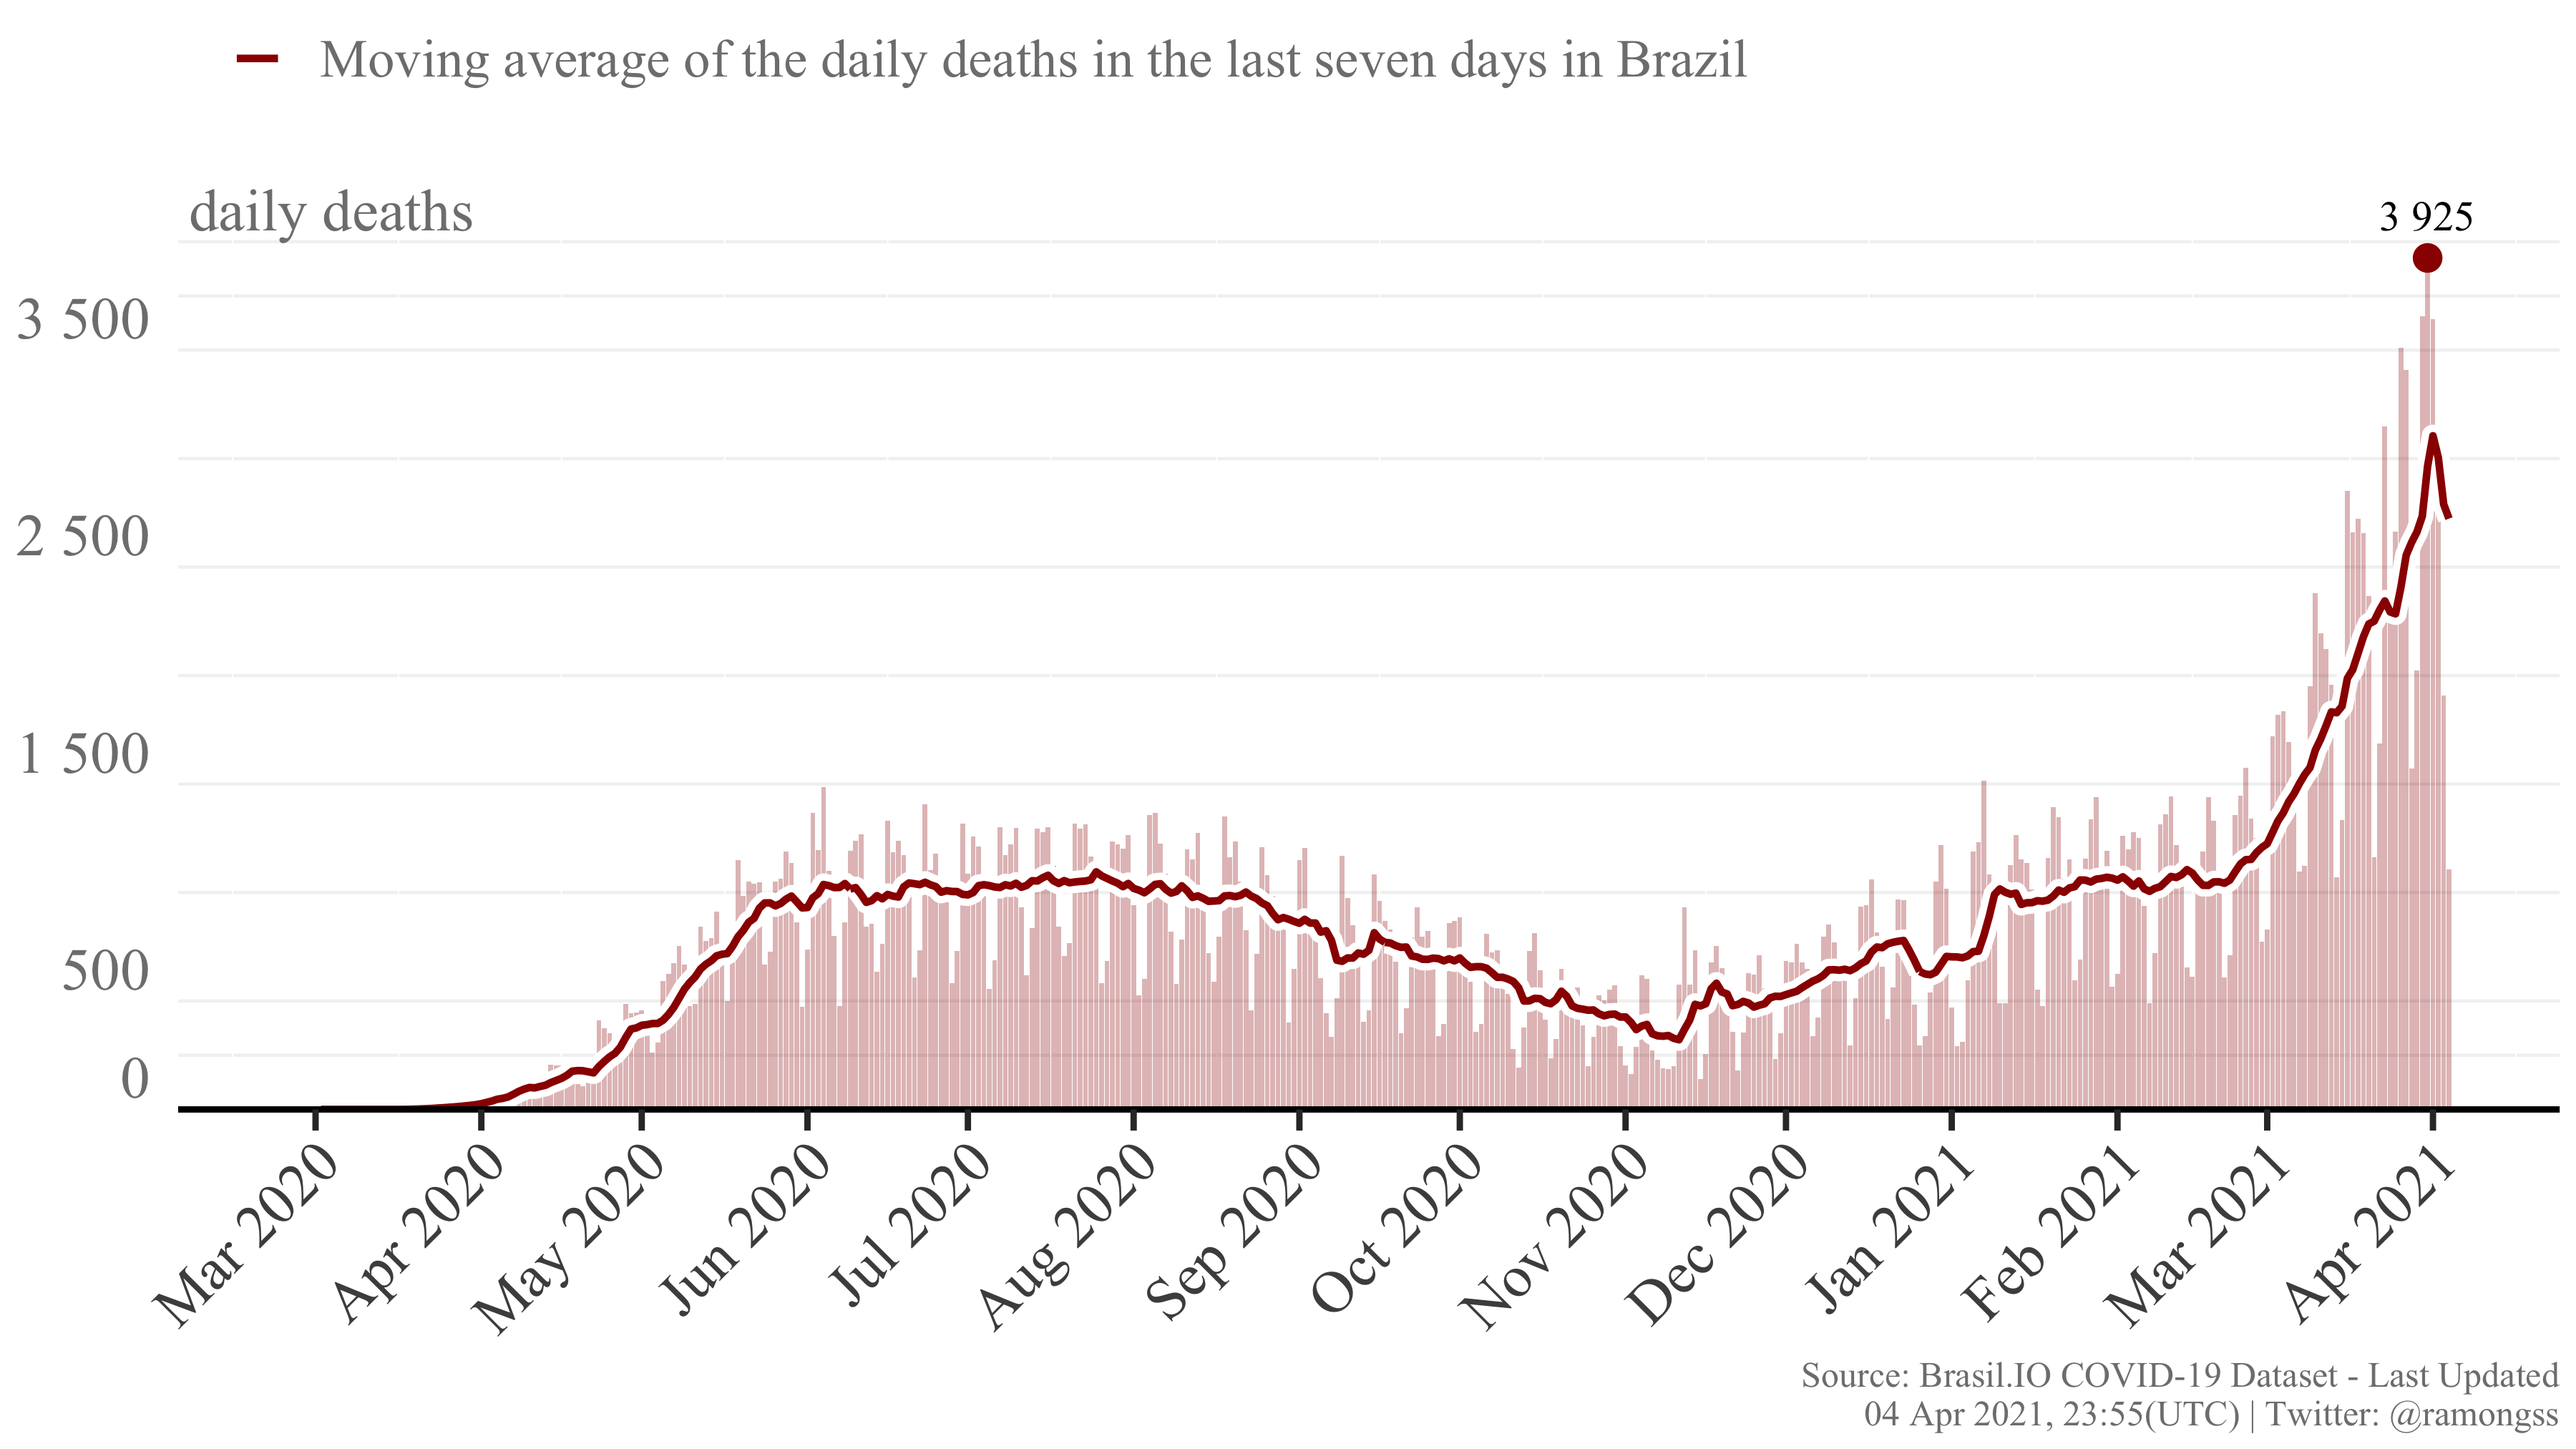
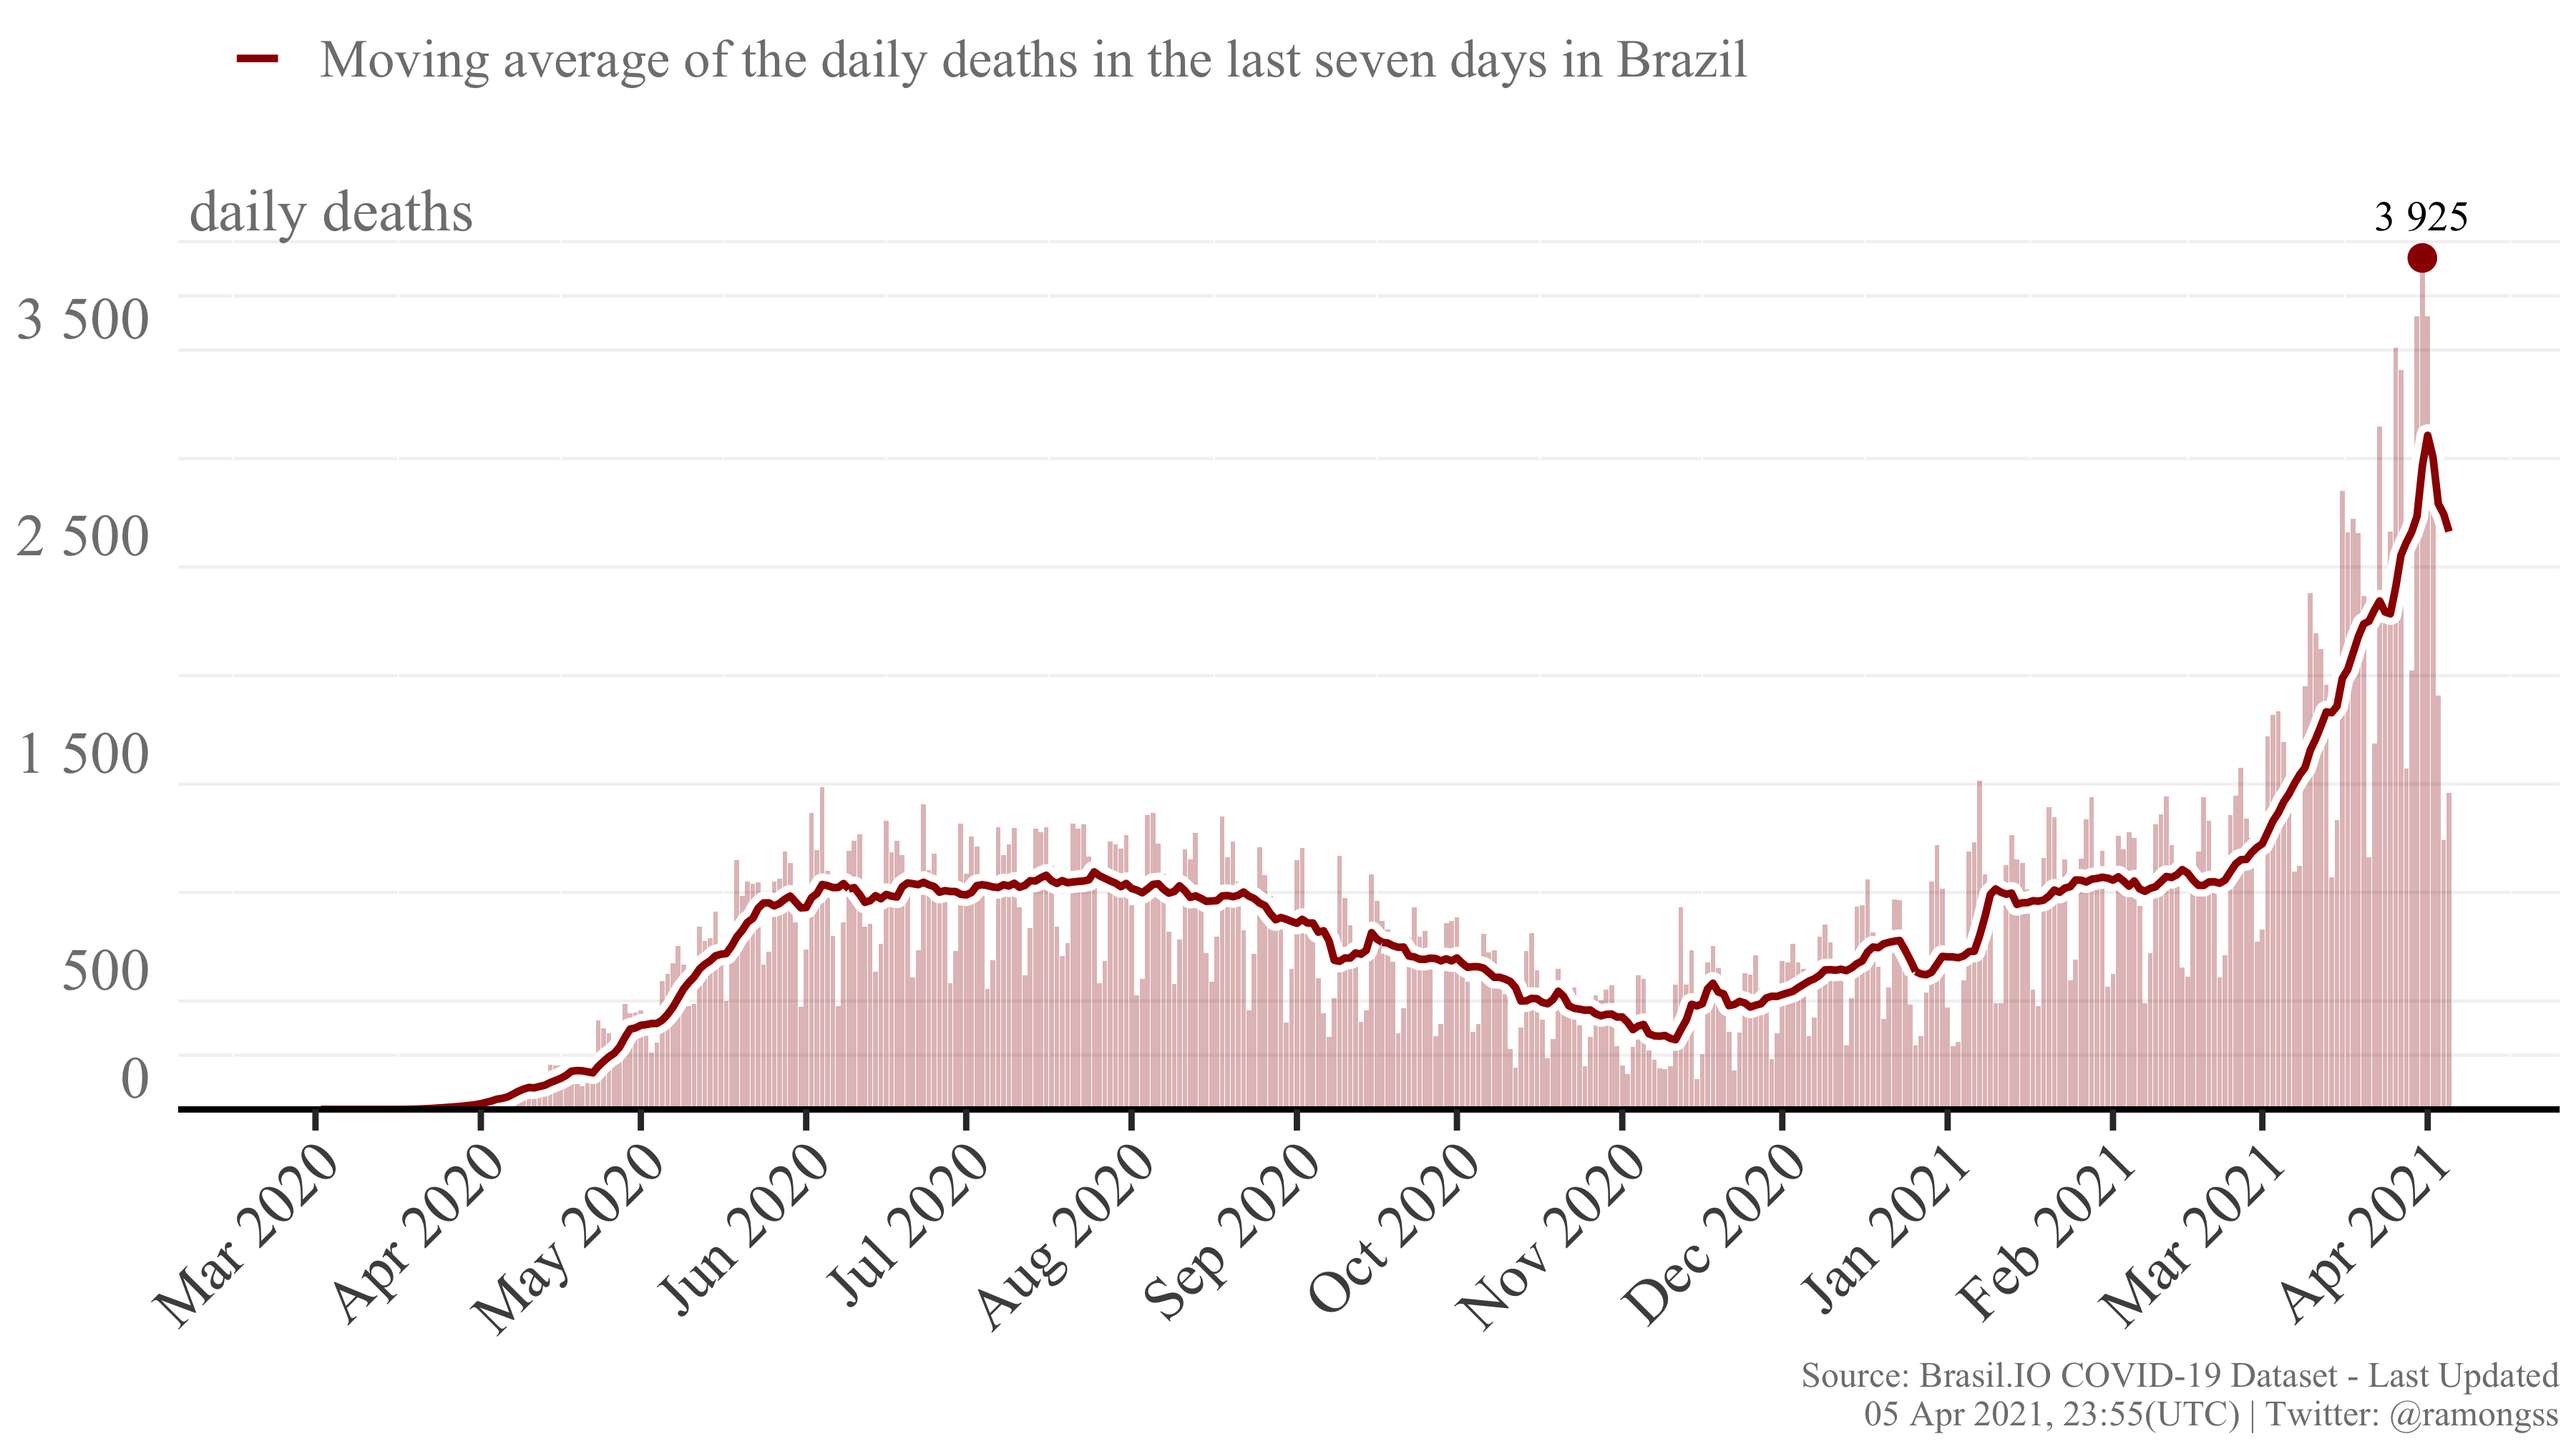
Re-build README.Rmd

diff --git a/README.md b/README.md
@@ -27,8 +27,8 @@ download_brasilio_table <- function(dataset = "covid19", table_name){
 
 ## COVID-19 Confirmed cases
 
-Currently, Brazil has a total of **12,987,452** confirmed cases at **04
-Apr, 2021**, with **27,579** new confirmed cases. The daily maximum
+Currently, Brazil has a total of **13,023,804** confirmed cases at **05
+Apr, 2021**, with **31,591** new confirmed cases. The daily maximum
 incidence was **98,839** confirmed cases at **25 Mar, 2021**. Here
 follows the Figure showing the confirmed case incidence as the bars, and
 the line as the moving average of the last 7 days.
@@ -37,8 +37,8 @@ the line as the moving average of the last 7 days.
 
 ## COVID-19 Deaths
 
-Currently, Brazil has a total of **331,597** deaths at **04 Apr, 2021**,
-with **1,107** new deaths. The daily maximum deaths incidence was
+Currently, Brazil has a total of **333,205** deaths at **05 Apr, 2021**,
+with **1,460** new deaths. The daily maximum deaths incidence was
 **3,925** deaths at **31 Mar, 2021**. Here follows the Figure showing
 the deaths incidence as the bars, and the line as the moving average of
 the last 7 days.
@@ -49,4 +49,4 @@ the last 7 days.
 
 This page is daily updated automatically using Github Actions.
 
-*Last update: 04 Apr 2021, 23:55 (UTC).*
+*Last update: 05 Apr 2021, 23:55 (UTC).*
